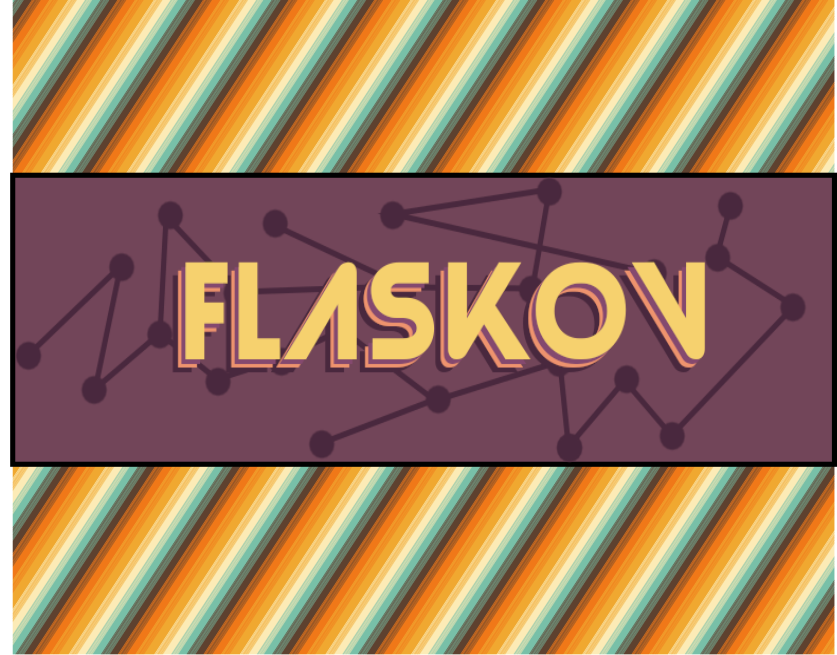
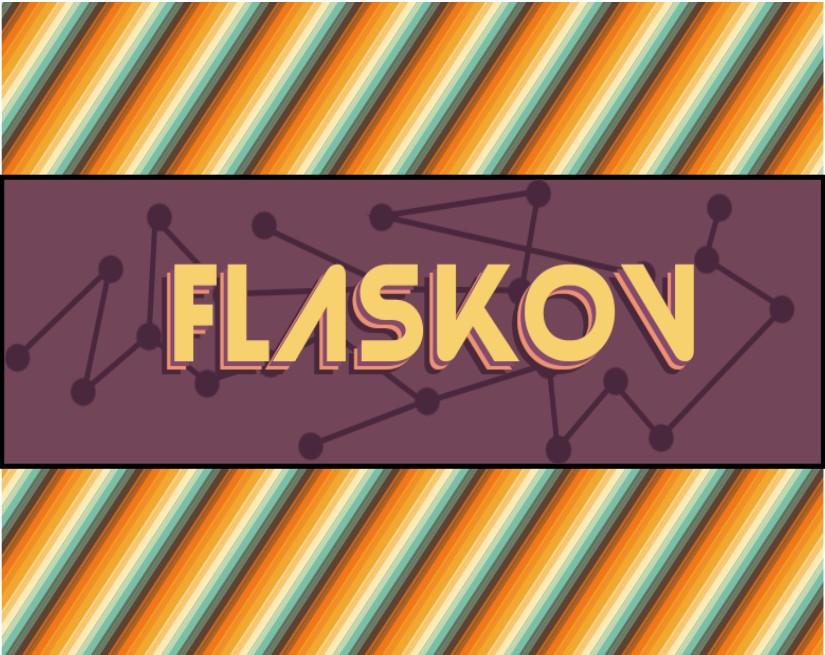
fixed image

diff --git a/project/flaskov/index.html b/project/flaskov/index.html
@@ -675,9 +675,9 @@
 </div>
 
 
-<div class="article-header article-container featured-image-wrapper mt-4 mb-4" style="max-width: 720px; max-height: 563px;">
+<div class="article-header article-container featured-image-wrapper mt-4 mb-4" style="max-width: 720px; max-height: 572px;">
   <div style="position: relative">
-    <img src="/project/flaskov/featured_hu99fecefb603839ef1250a54b33f8029d_396466_720x0_resize_lanczos_2.png" alt="" class="featured-image">
+    <img src="/project/flaskov/featured_hu9bd63e661e9326e245ef34e76a706b63_403607_720x0_resize_lanczos_2.png" alt="" class="featured-image">
     
   </div>
 </div>

diff --git a/index.html b/index.html
@@ -1011,7 +1011,7 @@
     
     
     <a href="/project/flaskov/"  class="card-image hover-overlay">
-      <img src="/project/flaskov/featured_hu99fecefb603839ef1250a54b33f8029d_396466_550x0_resize_q90_lanczos_2.png" alt="" class="img-responsive">
+      <img src="/project/flaskov/featured_hu9bd63e661e9326e245ef34e76a706b63_403607_550x0_resize_q90_lanczos_2.png" alt="" class="img-responsive">
     </a>
     
     <div class="card-text">
